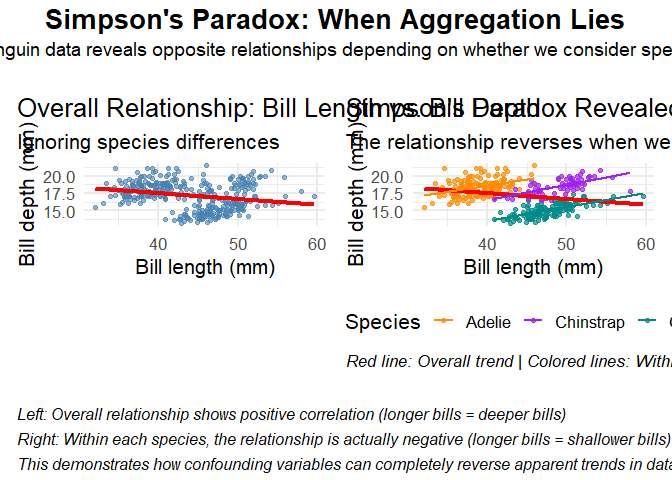
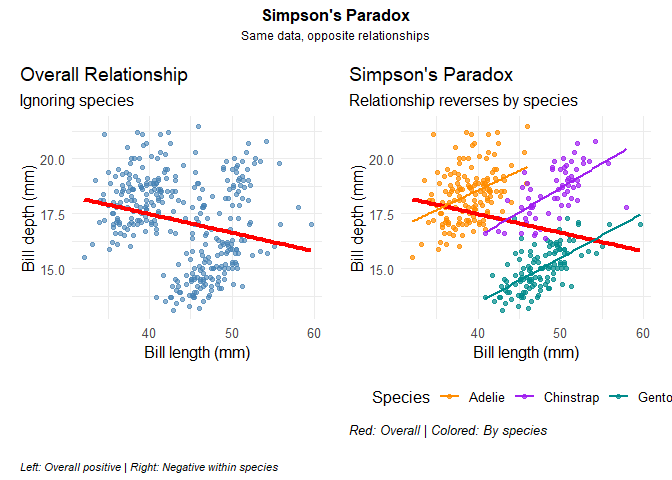
final change

diff --git a/README.md b/README.md
@@ -44,15 +44,16 @@ step.
 plot1 <- ggplot(data = penguins,
         aes(x = bill_length_mm,
         y = bill_depth_mm)) +
-  theme_minimal(16) +
+  theme_minimal(12) +
   geom_point(alpha = 0.6, color = "steelblue") +
-  labs(title = "Overall Relationship: Bill Length vs. Bill Depth",
-       subtitle = "Ignoring species differences",
+  labs(title = "Overall Relationship",
+       subtitle = "Ignoring species",
        x = "Bill length (mm)",
        y = "Bill depth (mm)") +
   theme(plot.title.position = "plot",
-        plot.caption = element_text(hjust = 0, face= "italic"),
-        plot.caption.position = "plot") +
+        plot.caption = element_text(hjust = 0, face = "italic", lineheight = 1.3),
+        plot.caption.position = "plot",
+        plot.margin = margin(10, 10, 10, 10)) +
   geom_smooth(method = "lm", se = FALSE, color = "red", linewidth = 1.5)
 
 plot1
@@ -74,19 +75,20 @@ plot2 <- ggplot(data = penguins,
        aes(x = bill_length_mm,
            y = bill_depth_mm,
            color = species)) +
-  theme_minimal(16) +
+  theme_minimal(12) +
   geom_point(alpha = 0.7) +
   scale_color_manual(values = c("darkorange","purple","cyan4"),
                      name = "Species") +
-  labs(title = "Simpson's Paradox Revealed!",
-       subtitle = "The relationship reverses when we consider species",
+  labs(title = "Simpson's Paradox",
+       subtitle = "Relationship reverses by species",
        x = "Bill length (mm)",
        y = "Bill depth (mm)",
-       caption = "Red line: Overall trend | Colored lines: Within-species trends") +
+       caption = "Red: Overall | Colored: By species") +
   theme(plot.title.position = "plot",
-        plot.caption = element_text(hjust = 0, face = "italic"),
+        plot.caption = element_text(hjust = 0, face = "italic", lineheight = 1.3),
         plot.caption.position = "plot",
-        legend.position = "bottom") +
+        legend.position = "bottom",
+        plot.margin = margin(10, 10, 10, 10)) +
   # Overall trend (ignoring species)
   geom_smooth(method = "lm", se = FALSE, color = "red", 
               linewidth = 1.5, alpha = 0.8) +
@@ -103,7 +105,7 @@ Relationships](README_files/figure-commonmark/unnamed-chunk-2-1.png)
 
 Notice what just happened: - **Overall trend (red line):** Positive
 relationship - longer bills are deeper - **Within each species (colored
-lines):** Negative relationship - longer bills are actually shallower!
+lines):** Negative relationship - longer bills are shallower!
 
 This is Simpson’s Paradox in action. The species variable is a
 **confounding variable** that completely reverses the apparent
@@ -115,14 +117,14 @@ relationship when we aggregate the data.
 # Create the side-by-side comparison using patchwork
 comparison_plot <- (plot1 | plot2) +
   plot_annotation(
-    title = "Simpson's Paradox: When Aggregation Lies",
-    subtitle = "The same penguin data reveals opposite relationships depending on whether we consider species grouping",
-    caption = "Left: Overall relationship shows positive correlation (longer bills = deeper bills)\nRight: Within each species, the relationship is actually negative (longer bills = shallower bills)\nThis demonstrates how confounding variables can completely reverse apparent trends in data",
+    title = "Simpson's Paradox",
+    subtitle = "Same data, opposite relationships",
+    caption = "Left: Overall positive | Right: Negative within species",
     theme = theme(
-      plot.title = element_text(size = 20, face = "bold", hjust = 0.5),
-      plot.subtitle = element_text(size = 14, hjust = 0.5, margin = margin(b = 20)),
-      plot.caption = element_text(size = 12, hjust = 0, face = "italic", 
-                                 margin = margin(t = 20), lineheight = 1.3)
+      plot.title = element_text(size = 12, face = "bold", hjust = 0.5, margin = margin(b = 5)),
+      plot.subtitle = element_text(size = 9, hjust = 0.5, margin = margin(b = 8)),
+      plot.caption = element_text(size = 8, hjust = 0, face = "italic", 
+                                 margin = margin(t = 8), lineheight = 1.2)
     )
   )
 
@@ -137,9 +139,8 @@ Stories](README_files/figure-commonmark/unnamed-chunk-3-1.png)
 This comparison makes Simpson’s Paradox crystal clear: - **Left plot:**
 Shows the misleading overall trend (positive correlation) - **Right
 plot:** Reveals the true relationship within each species (negative
-correlation) - **The paradox:** The same data tells two completely
-different stories depending on whether we consider the species grouping
-variable
+correlation) - **The paradox:** Same data tells two different stories
+depending on species grouping
 
 ## Key Takeaways: Lessons from Simpson’s Paradox
 
